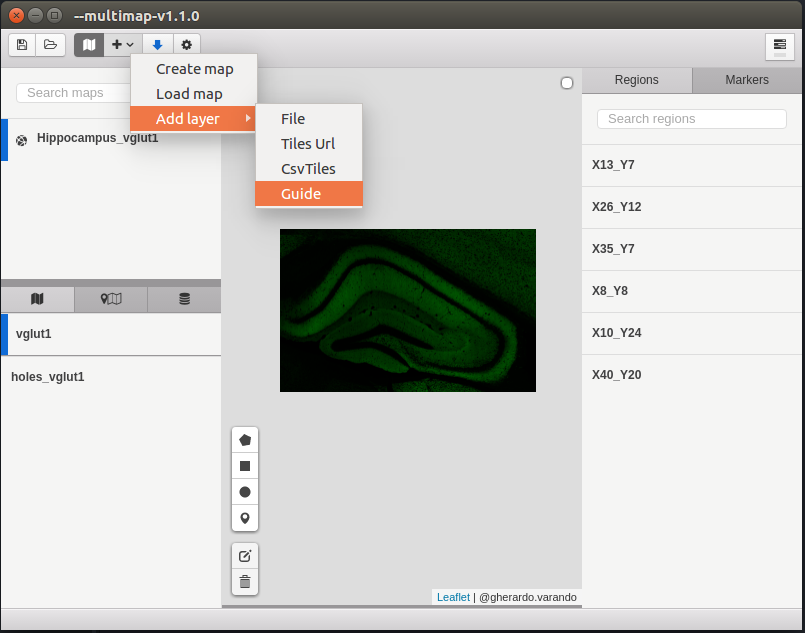
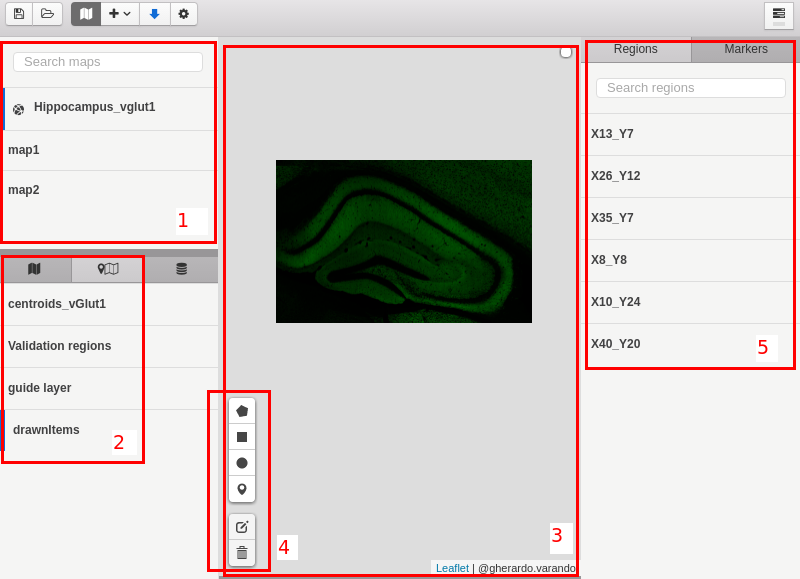
Map updated

Changed region(s): [[0.0, 0.0, 1.0, 1.0]]

diff --git a/README.md b/README.md
@@ -57,12 +57,16 @@ Extensions already present
 
 #### Installing extensions
 
+In the latest version of the application, the first time the application is launched, the published extensions will be installed automatically and nothing else will have to be installed.
 
 There are two ways to install extensions:
 
-- Loading the extension locally. **Extensions > Install extension > Load local extension**.
+- Loading the extension locally. For this you have to load the .js file that contains the extension. **Extensions > Install extension > Load local extension**.
 
-- Downloading the npm module if it is published. **Extensions > Install extension > Download npm module**.
+- Downloading the npm module if it is published on npm. **Extensions > Install extension > Download npm module**.
+
+![picture](images/searchextension.png)
+
 
 
 #### MapExtension
@@ -71,6 +75,13 @@ Multimap allows you to load a configuration JSON file (new Leaflet map) that inc
 
 
 ![picture](images/menumap.png)
+
+	- 1 Map list.
+	- 2 Layers control.
+	- 3 Map main window.
+	- 4 Draw tools.
+	- 5 Region and markers list.
+
 
 Within the configuration options it is possible to configure the following:
 
